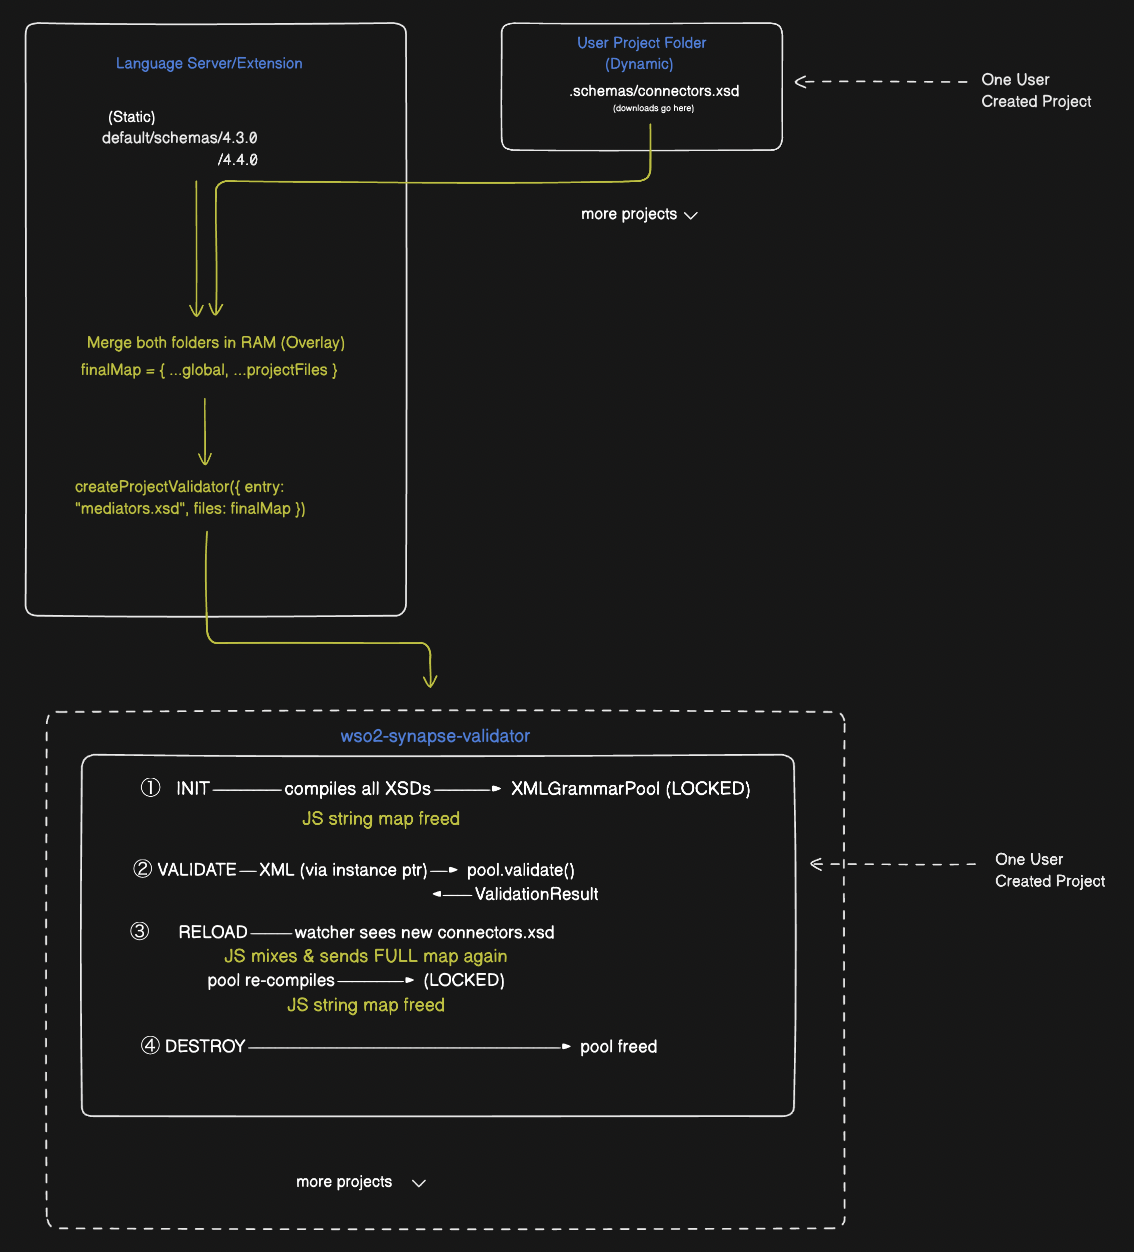
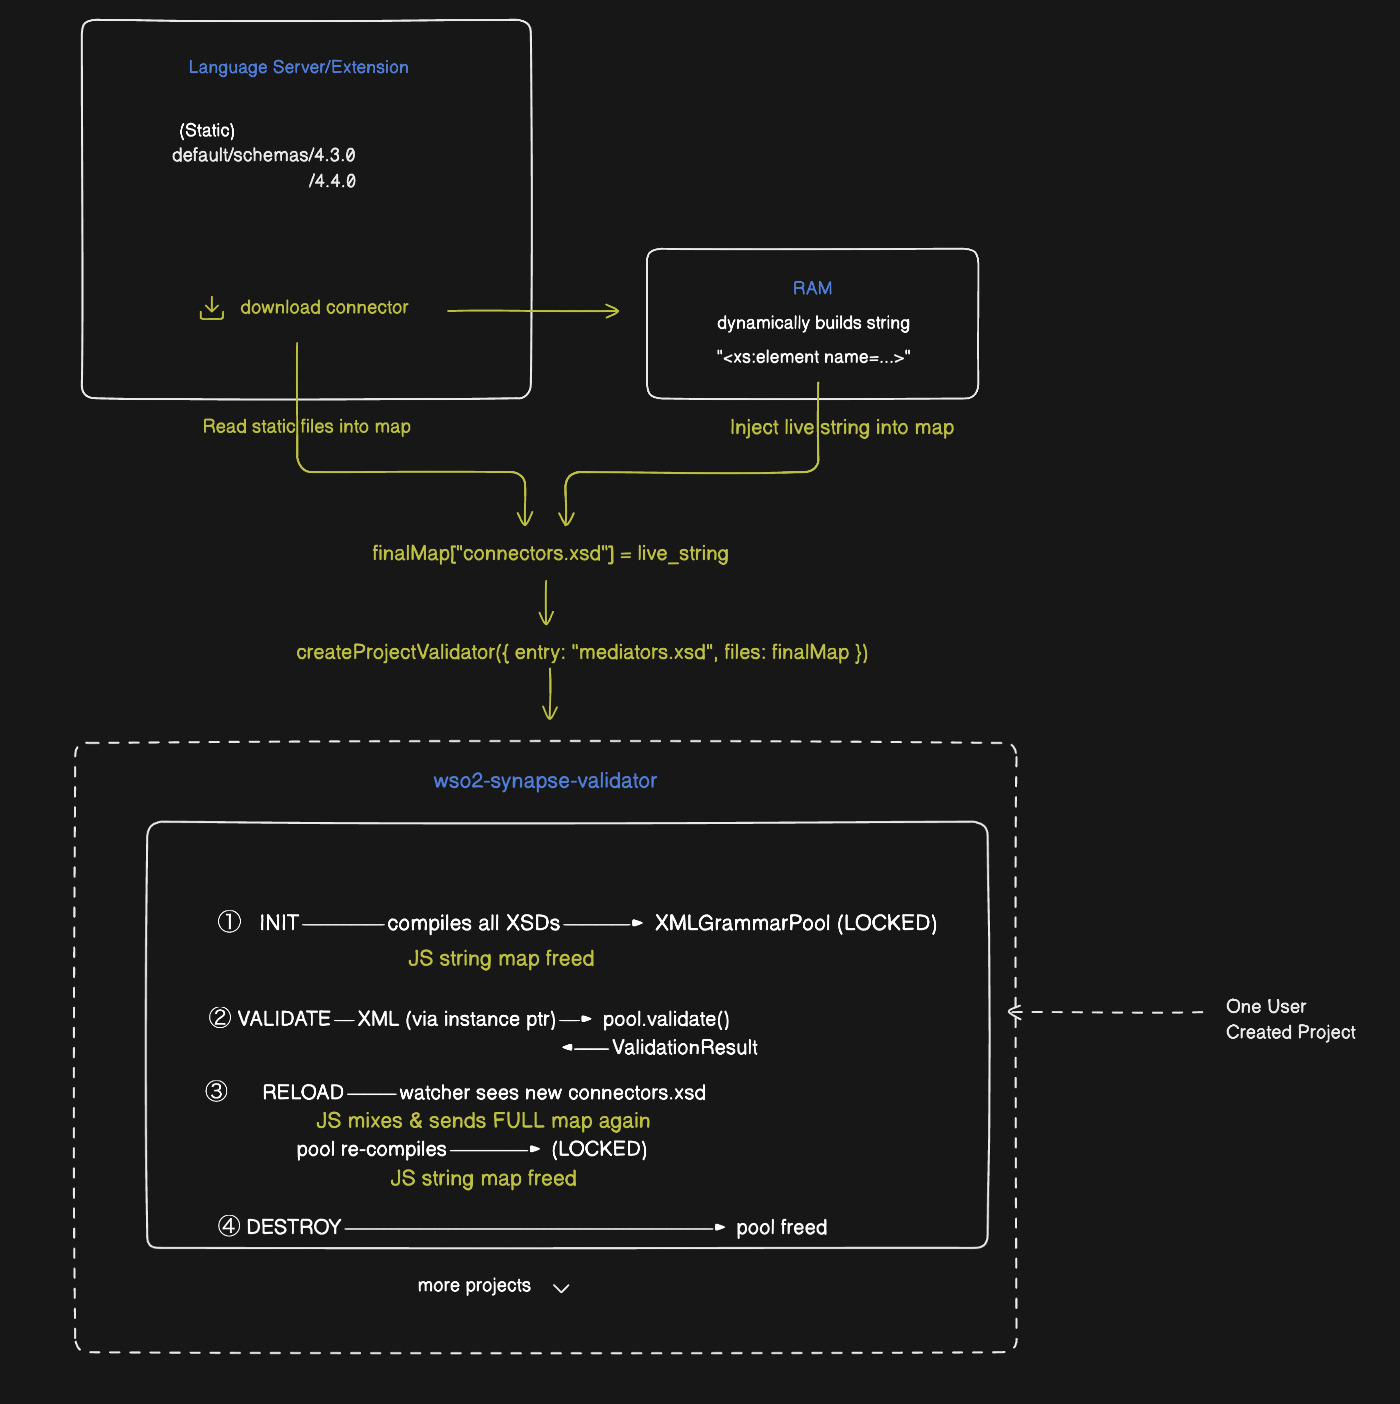
docs: update README with WASM validation flow and dynamic connector handling test: enhance schema mixer tests for in-memory connector injection build: add Jest types to TypeScript configuration

diff --git a/tests/schema-mixer.test.ts b/tests/schema-mixer.test.ts
@@ -1,11 +1,10 @@
 import { promises as fs } from "fs";
 import * as path from "path";
-import * as os from "os";
 import { createProjectValidator } from "../src/index";
 
 const GLOBAL_LS_FOLDER = path.join(__dirname, "schemas", "430");
 
-// Build a flat map keyed by the file's relative path from `root`.
+// Reads the global extension schema folder into a relative-path keyed map.
 // Keys like "mediators/core/call.xsd" let the WASM resolver reconstruct
 // the full virtual URI "memory:///mediators/core/call.xsd", so xs:include
 // paths like "../../endpoint.xsd" resolve correctly inside the WASM sandbox.
@@ -27,69 +26,71 @@ async function readSchemaFolder(root: string): Promise<Record<string, string>> {
   return out;
 }
 
-describe("Schema Mixer — Global LS + User Project merge", () => {
-  // Marker the user-project copy of connectors.xsd carries so we can prove
-  // which version survived into the final map.
-  const USER_CONNECTORS_MARKER = "USER_PROJECT_CONNECTORS_MARKER_v9_9_9";
+// Simulates what the LS does when a user installs a connector:
+// generates a connectors.xsd in memory that enumerates the connector elements.
+function generateConnectorsXsd(connectorElements: string[]): string {
+  const elements = connectorElements
+    .map(
+      (name) =>
+        `    <xs:element name="${name}">` +
+        `<xs:complexType><xs:anyAttribute processContents="skip"/></xs:complexType>` +
+        `</xs:element>`
+    )
+    .join("\n");
 
-  const USER_CONNECTORS_XSD = `<?xml version="1.0" encoding="ISO-8859-1"?>
+  return `<?xml version="1.0" encoding="ISO-8859-1"?>
 <xs:schema xmlns:xs="http://www.w3.org/2001/XMLSchema"
            elementFormDefault="qualified"
            targetNamespace="http://ws.apache.org/ns/synapse"
            xmlns="http://ws.apache.org/ns/synapse">
-  <!-- ${USER_CONNECTORS_MARKER} -->
   <xs:group name="connectors">
     <xs:choice>
+${elements}
       <xs:any namespace="##other" processContents="skip"/>
     </xs:choice>
   </xs:group>
 </xs:schema>
 `;
+}
 
-  // The override must use the same relative-path key as the global map entry.
-  // In the 430 tree that is "mediators/connectors.xsd".
-  const CONNECTORS_KEY = "mediators/connectors.xsd";
+const CONNECTORS_KEY = "mediators/connectors.xsd";
 
-  let userProjectFolder: string;
+describe("Schema Mixer — in-memory injection", () => {
+  let globalMap: Record<string, string>;
 
   beforeAll(async () => {
-    userProjectFolder = await fs.mkdtemp(path.join(os.tmpdir(), "user-proj-"));
-    const mediatorsDir = path.join(userProjectFolder, "mediators");
-    await fs.mkdir(mediatorsDir, { recursive: true });
-    await fs.writeFile(
-      path.join(mediatorsDir, "connectors.xsd"),
-      USER_CONNECTORS_XSD,
-      "utf8"
-    );
+    globalMap = await readSchemaFolder(GLOBAL_LS_FOLDER);
   });
 
-  afterAll(async () => {
-    await fs.rm(userProjectFolder, { recursive: true, force: true });
-  });
-
-  it("user project's connectors.xsd overrides the global one in the merged map", async () => {
-    const globalMap  = await readSchemaFolder(GLOBAL_LS_FOLDER);
-    const projectMap = await readSchemaFolder(userProjectFolder);
-
+  it("static global map contains the default connectors.xsd placeholder", () => {
     expect(globalMap[CONNECTORS_KEY]).toBeDefined();
-    expect(projectMap[CONNECTORS_KEY]).toBeDefined();
-    expect(globalMap[CONNECTORS_KEY]).not.toContain(USER_CONNECTORS_MARKER);
-    expect(projectMap[CONNECTORS_KEY]).toContain(USER_CONNECTORS_MARKER);
+    // The default is the empty placeholder — just the xs:any wildcard, no named elements.
+    expect(globalMap[CONNECTORS_KEY]).toContain(`name="connectors"`);
+  });
 
-    const finalMap = { ...globalMap, ...projectMap };
+  it("injecting a live-generated connectors.xsd overwrites the global placeholder", () => {
+    const liveGeneratedXML = generateConnectorsXsd(["s3_getObject", "s3_putObject"]);
 
-    expect(finalMap[CONNECTORS_KEY]).toBe(projectMap[CONNECTORS_KEY]);
+    const finalMap = { ...globalMap };
+    finalMap[CONNECTORS_KEY] = liveGeneratedXML;
+
+    // The injected string replaced the static one.
+    expect(finalMap[CONNECTORS_KEY]).toBe(liveGeneratedXML);
     expect(finalMap[CONNECTORS_KEY]).not.toBe(globalMap[CONNECTORS_KEY]);
-    expect(finalMap[CONNECTORS_KEY]).toContain(USER_CONNECTORS_MARKER);
 
-    // Project only contributed connectors.xsd, so merged key count equals global.
+    // The injected content contains the live connector elements.
+    expect(finalMap[CONNECTORS_KEY]).toContain("s3_getObject");
+    expect(finalMap[CONNECTORS_KEY]).toContain("s3_putObject");
+
+    // No new keys were added — same schema set, one entry overridden.
     expect(Object.keys(finalMap).sort()).toEqual(Object.keys(globalMap).sort());
   });
 
-  it("createProjectValidator compiles the merged map and validates a sample XML", async () => {
-    const globalMap  = await readSchemaFolder(GLOBAL_LS_FOLDER);
-    const projectMap = await readSchemaFolder(userProjectFolder);
-    const finalMap   = { ...globalMap, ...projectMap };
+  it("WASM bridge compiles the injected map and validates a sample XML", async () => {
+    const liveGeneratedXML = generateConnectorsXsd(["s3_getObject"]);
+
+    const finalMap = { ...globalMap };
+    finalMap[CONNECTORS_KEY] = liveGeneratedXML;
 
     const validator = await createProjectValidator({
       entry: "mediators/mediators.xsd",

diff --git a/README.md b/README.md
@@ -12,6 +12,21 @@ Schema is compiled once per project into a persistent WASM grammar pool. Every `
 
 ---
 
+### WASM Validation: Dynamic Connector Flow
+
+**1. Server Init (Startup)**
+
+- **No connectors:** Load only the static core schemas (from the extension folder) and send to WASM.
+- **Connectors exist:** Load the static schemas, generate the `connectors.xsd` live in RAM, merge them, and send the full text map to WASM.
+
+**2. Live Updates (Add / Remove Connector)**
+
+- **The Trigger:** A user downloads a new connector or deletes one.
+- **The Action:** Instantly re-generate the `connectors.xsd` live in RAM to match the new state.
+- **The WASM Update:** Send the **full text map** (static + updated dynamic string) to WASM again. The C++ engine needs the whole map to successfully re-compile the locked rules.
+
+---
+
 ## Multiple projects
 
 Each project gets its own grammar pool in WASM memory. They share one WASM instance but never share state.